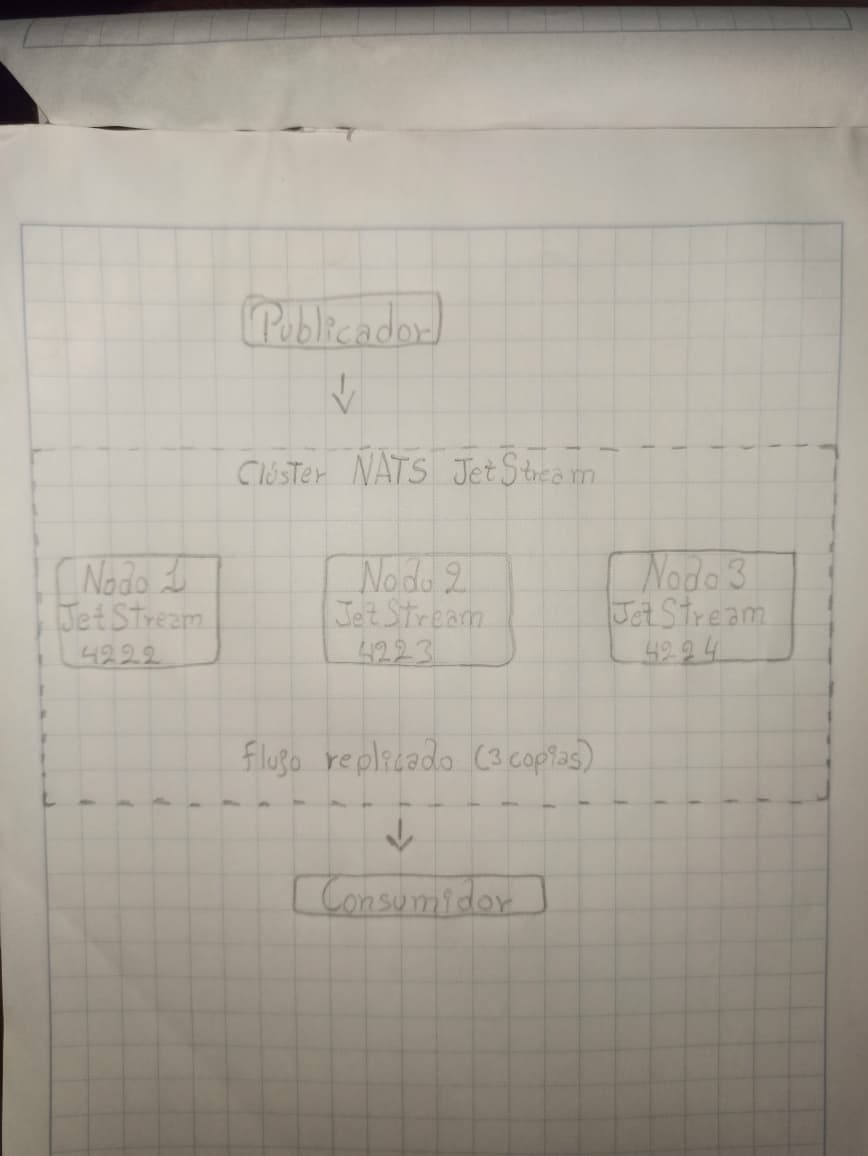
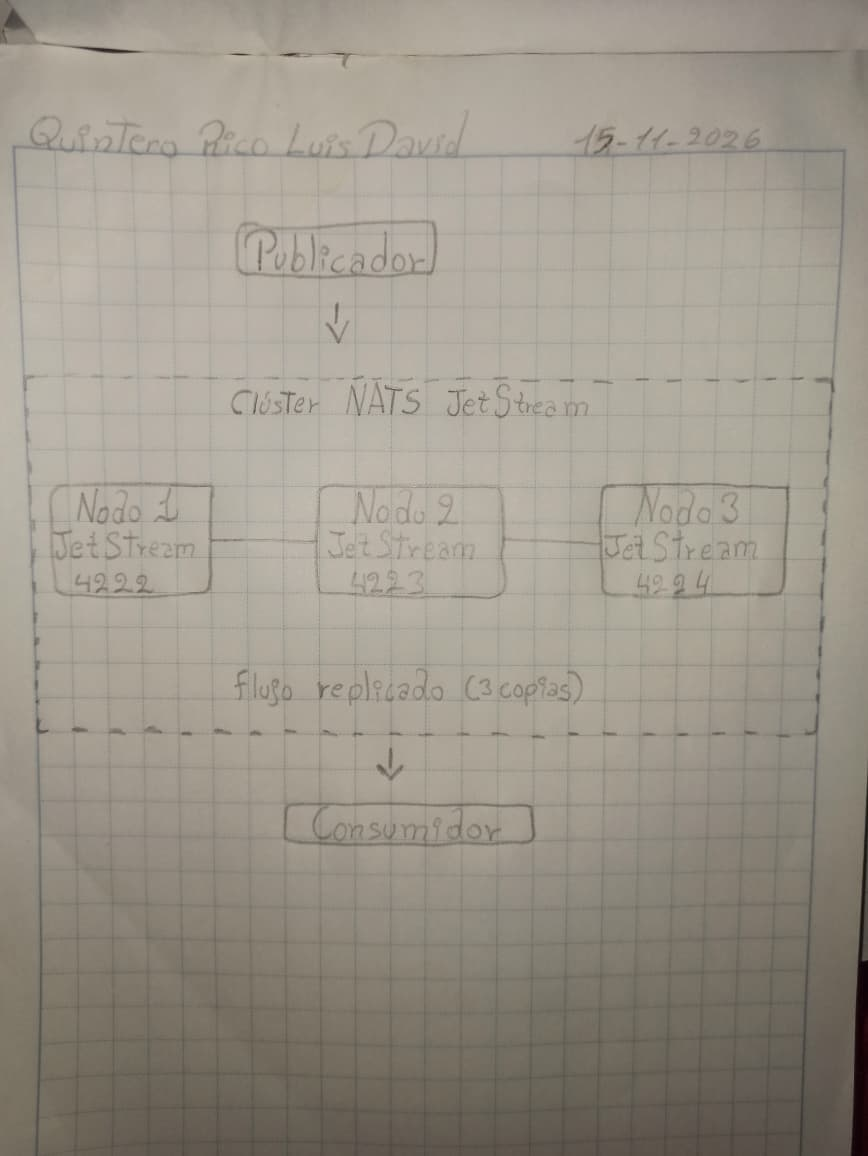
experimentos: configurar cluster NATS y verificar replicacion de tres nodos

Changed region(s): [[0.0, 0.0, 1.0, 1.0], [0.8399, 0.3114, 0.871, 0.3426], [0.6843, 0.3114, 0.7154, 0.3426]]

diff --git a/BITACORA.md b/BITACORA.md
@@ -39,5 +39,31 @@ Se revisaron los conceptos de la arquitectura y se representó gráficamente la 
 ### Tiempo dedicado
 1 hora.
 
+---
+
+## Sesión 3 — 14-11-2026
+
+### Actividades realizadas
+- Se instalaron NATS Server y NATS CLI en CachyOS.
+- Se verificó el funcionamiento de JetStream mediante el almacenamiento de un mensaje.
+- Se configuró un clúster local de tres nodos utilizando los puertos 4222, 4223 y 4224.
+- Se creó el flujo PRUEBA_R3 con tres réplicas.
+- Se comprobó que nodo3 asumió el liderazgo y que nodo1 y nodo2 estaban sincronizados.
+- Se guardaron capturas de la instalación y las pruebas realizadas.
+- Se corrigió el esquema inicial de NATS JetStream.
+- Se añadieron los datos de identificación al dibujo.
+- Se preparó la fotografía definitiva para el Anexo A.
+
+### Problemas encontrados
+- JetStream no iniciaba porque faltaban rutas de comunicación entre los nodos.
+- El comando de monitoreo requería permisos de la cuenta SYS.
+
+### Soluciones aplicadas
+- Se configuraron las rutas para permitir la conexión entre los tres nodos.
+- Se utilizó `nats stream info PRUEBA_R3` para verificar el estado de las réplicas.
+
+### Tiempo dedicado
+1 hora.
+
 ### Próxima actividad
-Instalar NATS JetStream en CachyOS y preparar el entorno para las pruebas de tolerancia a fallos.
+Enviar mensajes al flujo replicado y realizar una prueba de tolerancia a fallos mediante la caída y recuperación de un nodo.
